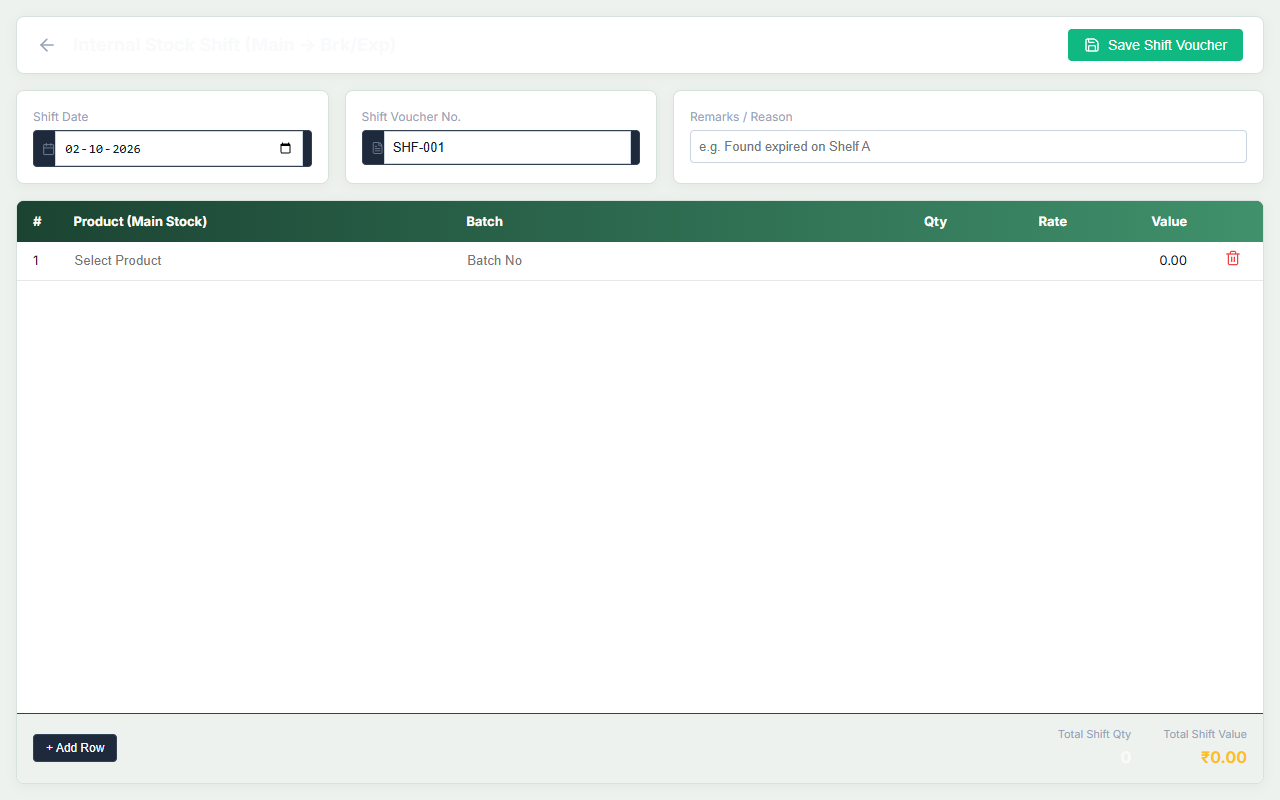
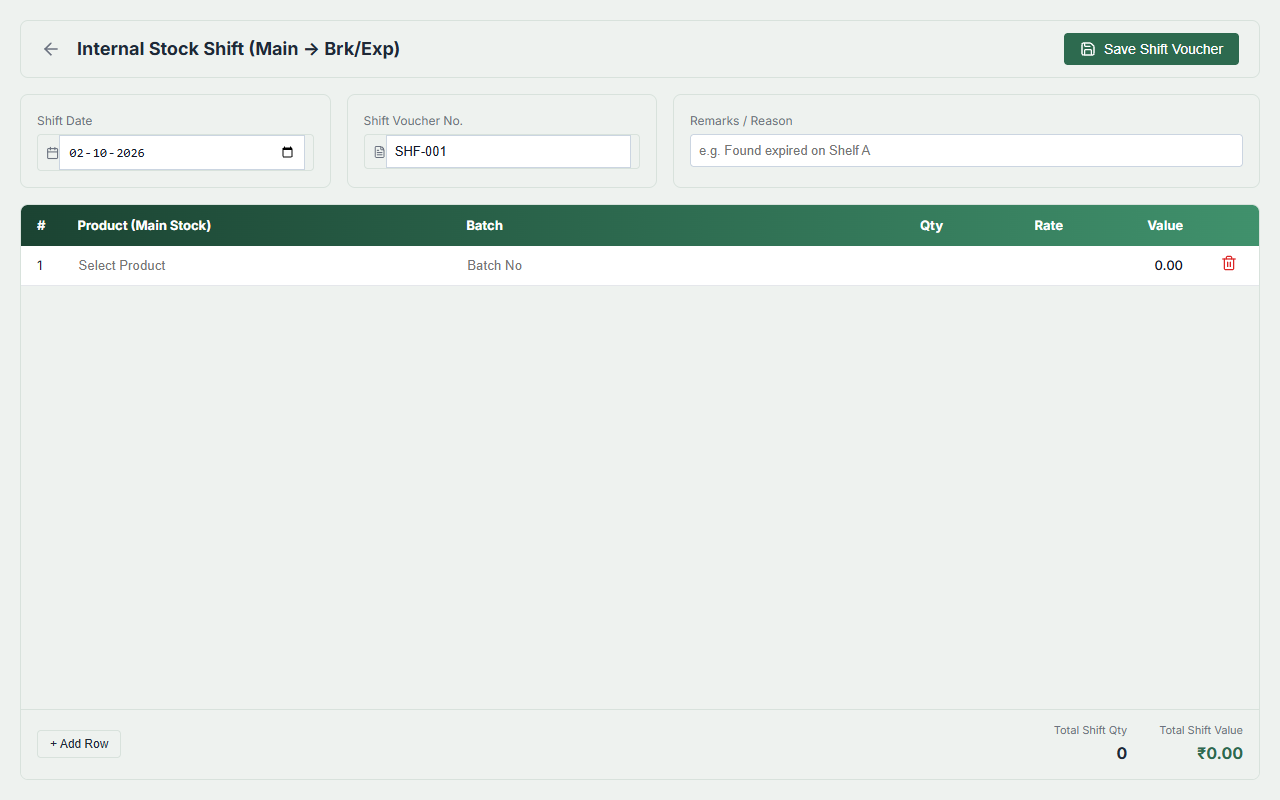
Add auto-fill filters for Expiry and Company in Stock Shift Voucher

diff --git a/src/pages/stock/StockShiftVoucher.tsx b/src/pages/stock/StockShiftVoucher.tsx
@@ -1,6 +1,7 @@
 import React, { useState, useEffect } from 'react';
 import { useNavigate } from 'react-router-dom';
-import { Save, ArrowLeft, Trash2, Calendar, FileText } from 'lucide-react';
+import { Save, ArrowLeft, Trash2, Calendar, FileText, Filter, Download } from 'lucide-react';
+import apiClient from '../../lib/api';
 
 export default function StockShiftVoucher() {
   const navigate = useNavigate();
@@ -8,9 +9,23 @@ export default function StockShiftVoucher() {
   const [shiftNo, setShiftNo] = useState('SHF-001');
   const [remarks, setRemarks] = useState('');
   
-  const [items, setItems] = useState([
-    { id: 1, product: '', batch: '', qty: 0, rate: 0, value: 0 }
-  ]);
+  const [items, setItems] = useState<any[]>([]);
+  const [companies, setCompanies] = useState<any[]>([]);
+  const [filterExpiry, setFilterExpiry] = useState('');
+  const [filterCompany, setFilterCompany] = useState('');
+  const [loading, setLoading] = useState(false);
+
+  useEffect(() => {
+    const fetchCompanies = async () => {
+      try {
+        const res = await apiClient.get('/master/manufacturers');
+        setCompanies(res.data);
+      } catch (err) {
+        console.error('Failed to load companies', err);
+      }
+    };
+    fetchCompanies();
+  }, []);
 
   useEffect(() => {
     const handleKeyDown = (e: KeyboardEvent) => {
@@ -23,7 +38,7 @@ export default function StockShiftVoucher() {
   }, [navigate]);
 
   const addRow = () => {
-    setItems([...items, { id: Date.now(), product: '', batch: '', qty: 0, rate: 0, value: 0 }]);
+    setItems([...items, { id: Date.now(), product_name: '', batch_number: '', qty: 0, rate: 0, value: 0 }]);
   };
 
   const updateItem = (id: number, field: string, value: any) => {
@@ -40,8 +55,38 @@ export default function StockShiftVoucher() {
   };
 
   const removeRow = (id: number) => {
-    if (items.length > 1) {
-      setItems(items.filter(item => item.id !== id));
+    setItems(items.filter(item => item.id !== id));
+  };
+
+  const clearGrid = () => {
+    if (window.confirm('Clear all items from the grid?')) {
+      setItems([]);
+    }
+  };
+
+  const handleAutoFill = async () => {
+    try {
+      setLoading(true);
+      const params = new URLSearchParams();
+      if (filterExpiry) params.append('expiry_before', filterExpiry);
+      if (filterCompany) params.append('company_id', filterCompany);
+      
+      const res = await apiClient.get('/stock/auto-shift-candidates?' + params.toString());
+      if (res.data && res.data.candidates) {
+        const newItems = res.data.candidates.map((c: any, index: number) => ({
+          ...c,
+          id: Date.now() + index, // unique id
+        }));
+        setItems(newItems);
+        if (newItems.length === 0) {
+          alert('No stock matched the selected filters.');
+        }
+      }
+    } catch (err) {
+      console.error('Failed to load candidates', err);
+      alert('Failed to load candidates.');
+    } finally {
+      setLoading(false);
     }
   };
 
@@ -49,8 +94,12 @@ export default function StockShiftVoucher() {
   const totalValue = items.reduce((sum, item) => sum + (Number(item.value) || 0), 0);
 
   const handleSave = () => {
+    if (items.length === 0) {
+      alert('Cannot save an empty shift voucher.');
+      return;
+    }
     alert('Stock Shift Voucher Saved Successfully! Product Register updated.');
-    navigate('/dashboard');
+    navigate('/inventory-dashboard');
   };
 
   return (
@@ -63,7 +112,7 @@ export default function StockShiftVoucher() {
           </button>
           <h1 style={{ fontSize: '18px', fontWeight: 'bold', margin: 0, color: 'var(--color-text)' }}>Internal Stock Shift (Main -&gt; Brk/Exp)</h1>
         </div>
-        <button onClick={handleSave} style={{ backgroundColor: 'var(--color-primary)', color: 'white', border: 'none', borderRadius: '4px', padding: '8px 16px', fontSize: '14px', fontWeight: '500', cursor: 'pointer', display: 'flex', alignItems: 'center', gap: '8px' }}>
+        <button onClick={handleSave} style={{ backgroundColor: 'var(--color-success)', color: 'white', border: 'none', borderRadius: '4px', padding: '8px 16px', fontSize: '14px', fontWeight: '500', cursor: 'pointer', display: 'flex', alignItems: 'center', gap: '8px' }}>
           <Save size={16} /> Save Shift Voucher
         </button>
       </div>
@@ -90,15 +139,51 @@ export default function StockShiftVoucher() {
         </div>
       </div>
 
+      {/* Auto Fill Filters */}
+      <div style={{ display: 'flex', gap: '16px', marginBottom: '16px', alignItems: 'flex-end', backgroundColor: 'var(--color-bg-subtle)', border: '1px solid var(--color-border)', borderRadius: '8px', padding: '16px' }}>
+        <div style={{ flex: 1 }}>
+          <label style={{ display: 'block', fontSize: '12px', color: 'var(--color-text-muted)', marginBottom: '4px' }}>Filter: Expired Before (MM/YY)</label>
+          <input 
+            type="text" 
+            placeholder="e.g. 12/26" 
+            value={filterExpiry} 
+            onChange={(e) => setFilterExpiry(e.target.value)} 
+            style={{ backgroundColor: 'var(--color-bg)', border: '1px solid var(--color-border)', borderRadius: '4px', color: 'var(--color-text)', padding: '8px', fontSize: '13px', width: '100%', outline: 'none', boxSizing: 'border-box' }} 
+          />
+        </div>
+        <div style={{ flex: 1 }}>
+          <label style={{ display: 'block', fontSize: '12px', color: 'var(--color-text-muted)', marginBottom: '4px' }}>Filter: Company</label>
+          <select 
+            value={filterCompany} 
+            onChange={(e) => setFilterCompany(e.target.value)}
+            style={{ backgroundColor: 'var(--color-bg)', border: '1px solid var(--color-border)', borderRadius: '4px', color: 'var(--color-text)', padding: '8px', fontSize: '13px', width: '100%', outline: 'none', boxSizing: 'border-box' }}
+          >
+            <option value="">-- All Companies --</option>
+            {companies.map(c => (
+              <option key={c.id} value={c.id}>{c.name}</option>
+            ))}
+          </select>
+        </div>
+        <div style={{ display: 'flex', gap: '8px' }}>
+          <button onClick={handleAutoFill} disabled={loading} style={{ backgroundColor: 'var(--color-primary)', color: 'white', border: 'none', borderRadius: '4px', padding: '8px 16px', fontSize: '13px', fontWeight: '500', cursor: 'pointer', display: 'flex', alignItems: 'center', gap: '8px' }}>
+            <Download size={16} /> {loading ? 'Loading...' : 'Auto-Load Candidates'}
+          </button>
+          <button onClick={clearGrid} style={{ backgroundColor: 'var(--color-bg)', color: 'var(--color-danger)', border: '1px solid var(--color-danger)', borderRadius: '4px', padding: '8px 16px', fontSize: '13px', fontWeight: '500', cursor: 'pointer', display: 'flex', alignItems: 'center', gap: '8px' }}>
+            Clear Grid
+          </button>
+        </div>
+      </div>
+
       {/* Grid */}
       <div style={{ flex: 1, backgroundColor: 'var(--color-bg-subtle)', border: '1px solid var(--color-border)', borderRadius: '8px', display: 'flex', flexDirection: 'column', overflow: 'hidden' }}>
         <div style={{ flex: 1, overflowY: 'auto' }}>
           <table style={{ width: '100%', borderCollapse: 'collapse', fontSize: '13px' }}>
-            <thead style={{ backgroundColor: 'var(--color-table-header)', position: 'sticky', top: 0 }}>
+            <thead style={{ backgroundColor: 'var(--color-table-header)', position: 'sticky', top: 0, zIndex: 10 }}>
               <tr>
                 <th style={{ padding: '10px 16px', textAlign: 'left', color: 'var(--color-text)', fontWeight: '500', width: '40px', borderBottom: '1px solid var(--color-border)' }}>#</th>
                 <th style={{ padding: '10px 16px', textAlign: 'left', color: 'var(--color-text)', fontWeight: '500', borderBottom: '1px solid var(--color-border)' }}>Product (Main Stock)</th>
                 <th style={{ padding: '10px 16px', textAlign: 'left', color: 'var(--color-text)', fontWeight: '500', borderBottom: '1px solid var(--color-border)' }}>Batch</th>
+                <th style={{ padding: '10px 16px', textAlign: 'left', color: 'var(--color-text)', fontWeight: '500', borderBottom: '1px solid var(--color-border)', width: '100px' }}>Expiry</th>
                 <th style={{ padding: '10px 16px', textAlign: 'right', color: 'var(--color-text)', fontWeight: '500', width: '120px', borderBottom: '1px solid var(--color-border)' }}>Qty</th>
                 <th style={{ padding: '10px 16px', textAlign: 'right', color: 'var(--color-text)', fontWeight: '500', width: '120px', borderBottom: '1px solid var(--color-border)' }}>Rate</th>
                 <th style={{ padding: '10px 16px', textAlign: 'right', color: 'var(--color-text)', fontWeight: '500', width: '120px', borderBottom: '1px solid var(--color-border)' }}>Value</th>
@@ -106,14 +191,23 @@ export default function StockShiftVoucher() {
               </tr>
             </thead>
             <tbody>
-              {items.map((item, index) => (
+              {items.length === 0 ? (
+                <tr>
+                  <td colSpan={8} style={{ padding: '32px', textAlign: 'center', color: 'var(--color-text-muted)' }}>
+                    No items added. Use "Auto-Load Candidates" to fetch expired stock, or add rows manually.
+                  </td>
+                </tr>
+              ) : items.map((item, index) => (
                 <tr key={item.id} style={{ borderBottom: '1px solid var(--color-border)' }}>
                   <td style={{ padding: '8px 16px', color: 'var(--color-text-muted)' }}>{index + 1}</td>
                   <td style={{ padding: '8px 16px' }}>
-                    <input type="text" placeholder="Select Product" value={item.product} onChange={(e) => updateItem(item.id, 'product', e.target.value)} style={{ backgroundColor: 'transparent', border: 'none', color: 'var(--color-text)', width: '100%', outline: 'none' }} />
+                    <input type="text" placeholder="Select Product" value={item.product_name || ''} onChange={(e) => updateItem(item.id, 'product_name', e.target.value)} style={{ backgroundColor: 'transparent', border: 'none', color: 'var(--color-text)', width: '100%', outline: 'none' }} />
                   </td>
                   <td style={{ padding: '8px 16px' }}>
-                    <input type="text" placeholder="Batch No" value={item.batch} onChange={(e) => updateItem(item.id, 'batch', e.target.value)} style={{ backgroundColor: 'transparent', border: 'none', color: 'var(--color-text)', width: '100%', outline: 'none' }} />
+                    <input type="text" placeholder="Batch No" value={item.batch_number || ''} onChange={(e) => updateItem(item.id, 'batch_number', e.target.value)} style={{ backgroundColor: 'transparent', border: 'none', color: 'var(--color-text)', width: '100%', outline: 'none' }} />
+                  </td>
+                  <td style={{ padding: '8px 16px', color: 'var(--color-danger)' }}>
+                    {item.expiry || '-'}
                   </td>
                   <td style={{ padding: '8px 16px' }}>
                     <input type="number" value={item.qty || ''} onChange={(e) => updateItem(item.id, 'qty', e.target.value)} style={{ backgroundColor: 'transparent', border: 'none', color: 'var(--color-text)', width: '100%', outline: 'none', textAlign: 'right' }} />
@@ -122,7 +216,7 @@ export default function StockShiftVoucher() {
                     <input type="number" value={item.rate || ''} onChange={(e) => updateItem(item.id, 'rate', e.target.value)} style={{ backgroundColor: 'transparent', border: 'none', color: 'var(--color-text)', width: '100%', outline: 'none', textAlign: 'right' }} />
                   </td>
                   <td style={{ padding: '8px 16px', textAlign: 'right', color: 'var(--color-text)', fontWeight: '500' }}>
-                    {item.value.toFixed(2)}
+                    {(item.value || 0).toFixed(2)}
                   </td>
                   <td style={{ padding: '8px 16px', textAlign: 'center' }}>
                     <button onClick={() => removeRow(item.id)} style={{ background: 'transparent', border: 'none', color: 'var(--color-danger)', cursor: 'pointer' }}>
@@ -138,7 +232,7 @@ export default function StockShiftVoucher() {
         {/* Footer Summary */}
         <div style={{ backgroundColor: 'var(--color-bg)', borderTop: '1px solid var(--color-border)', padding: '12px 16px', display: 'flex', justifyContent: 'space-between', alignItems: 'center' }}>
           <button onClick={addRow} style={{ backgroundColor: 'var(--color-bg-subtle)', color: 'var(--color-text)', border: '1px solid var(--color-border)', borderRadius: '4px', padding: '6px 12px', fontSize: '12px', cursor: 'pointer' }}>
-            + Add Row
+            + Add Manual Row
           </button>
           
           <div style={{ display: 'flex', gap: '32px' }}>

diff --git a/add_auto_shift_api.py b/add_auto_shift_api.py
@@ -1,0 +1,71 @@
+import os
+
+file_path = 'backend/api/stock.py'
+with open(file_path, 'r', encoding='utf-8') as f:
+    content = f.read()
+
+new_endpoint = """
+@router.get("/auto-shift-candidates")
+def get_auto_shift_candidates(
+    expiry_before: Optional[str] = None,
+    company_id: Optional[str] = None,
+    db: Session = Depends(get_db),
+    current_user: models.User = Depends(get_current_user)
+):
+    org_id = current_user.organization_id
+    
+    query = db.query(models.Batch, models.Product).join(
+        models.Product, models.Batch.product_id == models.Product.id
+    ).filter(
+        models.Batch.organization_id == org_id,
+        models.Batch.current_stock > 0
+    )
+    
+    if company_id:
+        query = query.filter(models.Product.company_id == company_id)
+        
+    results = query.all()
+    
+    def parse_mmyy(val):
+        if not val or "/" not in val:
+            return 999999
+        try:
+            m, y = val.split('/')
+            m = int(m.strip())
+            y = int(y.strip())
+            if y < 100:
+                y += 2000
+            return y * 100 + m
+        except:
+            return 999999
+            
+    target_date_num = parse_mmyy(expiry_before) if expiry_before else None
+    
+    candidates = []
+    for batch, product in results:
+        if target_date_num:
+            batch_date_num = parse_mmyy(batch.expiry)
+            if batch_date_num > target_date_num:
+                continue
+                
+        candidates.append({
+            "product_id": str(product.id),
+            "product_name": product.name,
+            "batch_id": str(batch.id),
+            "batch_number": batch.batch_number,
+            "expiry": batch.expiry,
+            "qty": batch.current_stock,
+            "rate": float(batch.mrp or 0.0),
+            "value": float(batch.current_stock * (batch.mrp or 0))
+        })
+        
+    return {"candidates": candidates}
+"""
+
+if "/auto-shift-candidates" not in content:
+    content = content + "\n" + new_endpoint
+    with open(file_path, 'w', encoding='utf-8') as f:
+        f.write(content)
+    print("Endpoint added")
+else:
+    print("Endpoint already exists")

diff --git a/backend/api/stock.py b/backend/api/stock.py
@@ -451,3 +451,60 @@ def apply_mrp_suggestions(
             
     db.commit()
     return {"message": f"Successfully updated MRP planning for {updated_count} products."}
+
+
+@router.get("/auto-shift-candidates")
+def get_auto_shift_candidates(
+    expiry_before: Optional[str] = None,
+    company_id: Optional[str] = None,
+    db: Session = Depends(get_db),
+    current_user: models.User = Depends(get_current_user)
+):
+    org_id = current_user.organization_id
+    
+    query = db.query(models.Batch, models.Product).join(
+        models.Product, models.Batch.product_id == models.Product.id
+    ).filter(
+        models.Batch.organization_id == org_id,
+        models.Batch.current_stock > 0
+    )
+    
+    if company_id:
+        query = query.filter(models.Product.company_id == company_id)
+        
+    results = query.all()
+    
+    def parse_mmyy(val):
+        if not val or "/" not in val:
+            return 999999
+        try:
+            m, y = val.split('/')
+            m = int(m.strip())
+            y = int(y.strip())
+            if y < 100:
+                y += 2000
+            return y * 100 + m
+        except:
+            return 999999
+            
+    target_date_num = parse_mmyy(expiry_before) if expiry_before else None
+    
+    candidates = []
+    for batch, product in results:
+        if target_date_num:
+            batch_date_num = parse_mmyy(batch.expiry)
+            if batch_date_num > target_date_num:
+                continue
+                
+        candidates.append({
+            "product_id": str(product.id),
+            "product_name": product.name,
+            "batch_id": str(batch.id),
+            "batch_number": batch.batch_number,
+            "expiry": batch.expiry,
+            "qty": batch.current_stock,
+            "rate": float(batch.mrp or 0.0),
+            "value": float(batch.current_stock * (batch.mrp or 0))
+        })
+        
+    return {"candidates": candidates}
